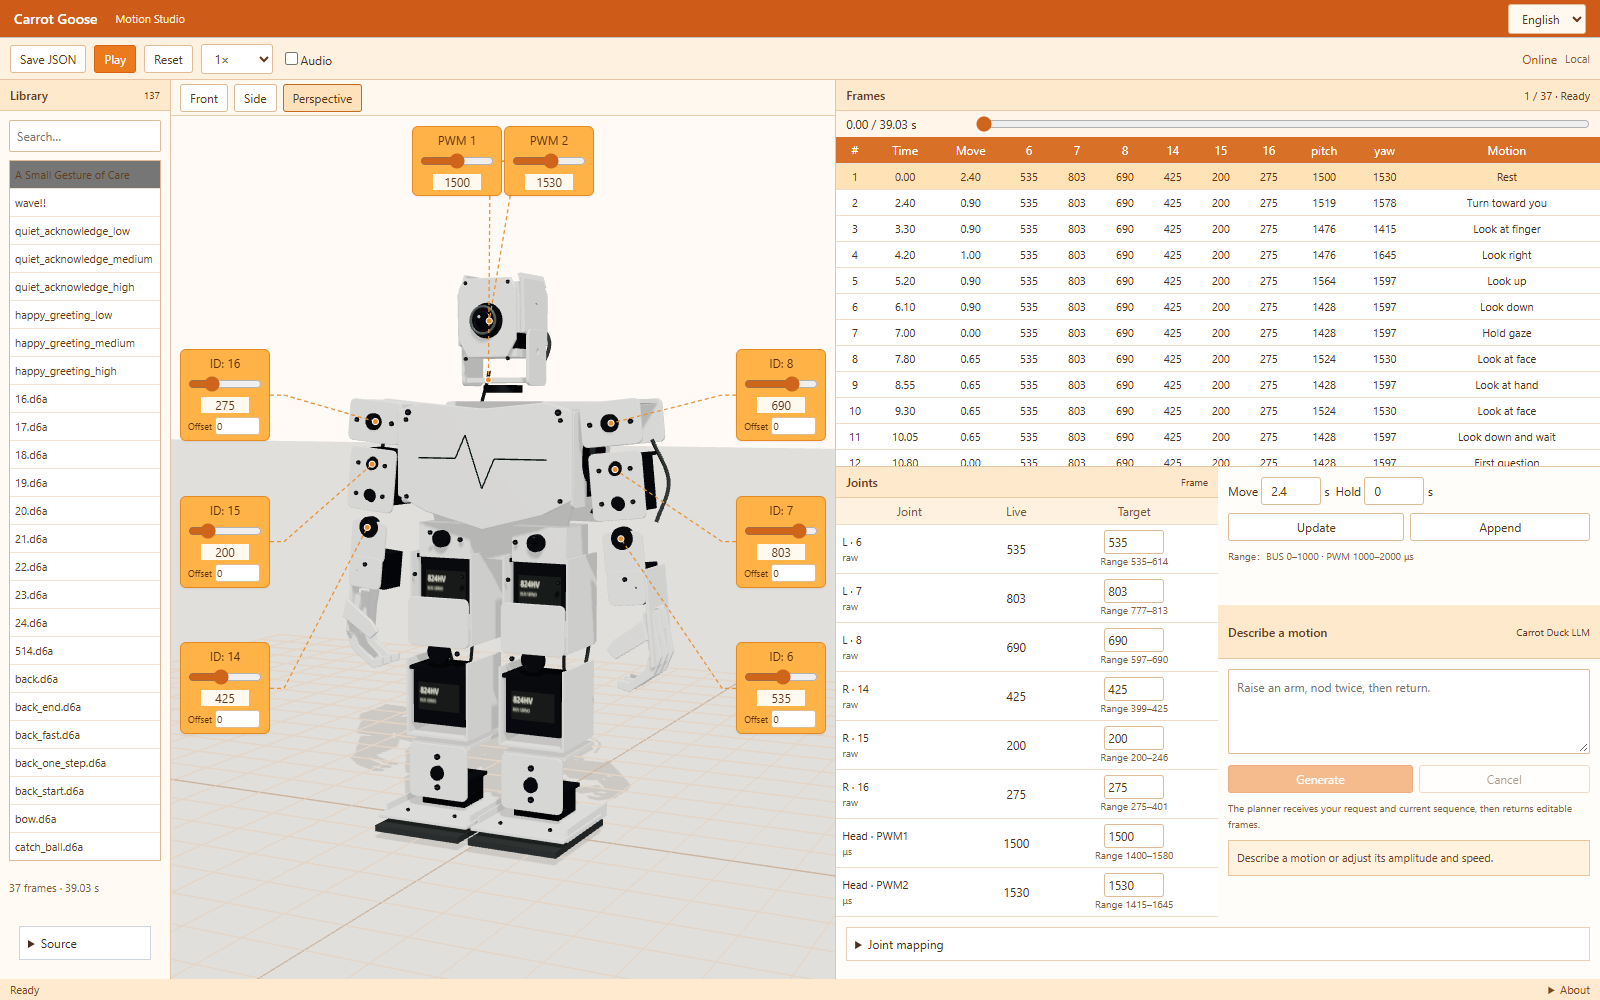
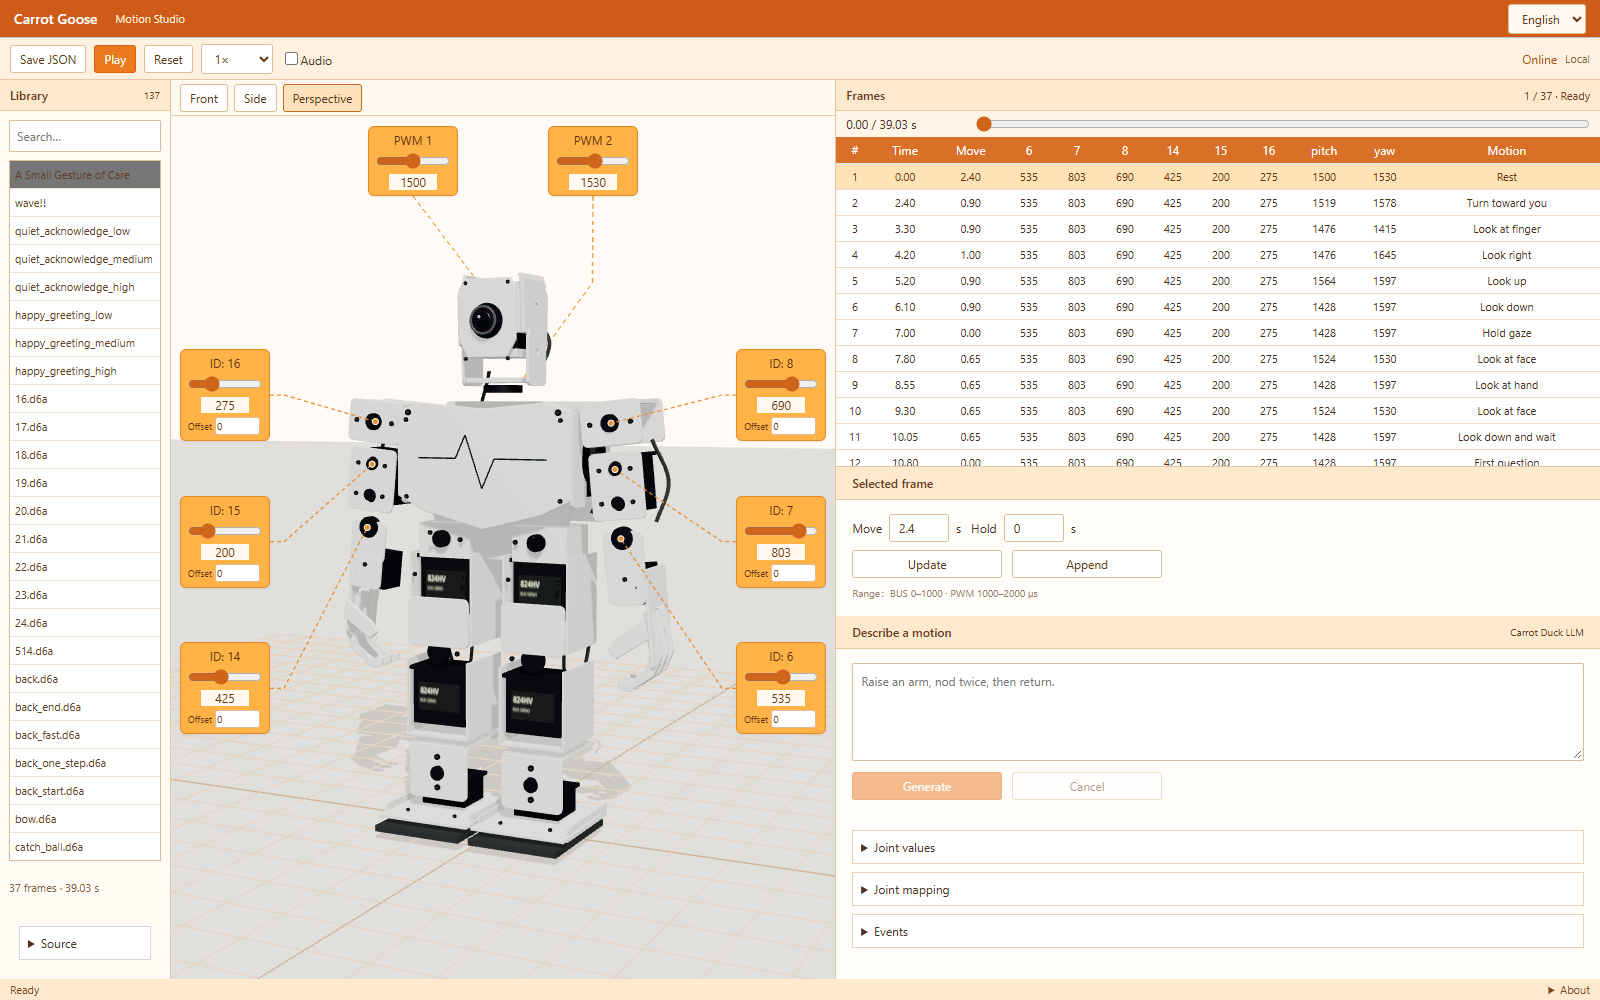
Simplify motion editing layout and route head links behind model

Changed region(s): [[0.5, 0.465, 1.0, 0.961], [0.2188, 0.124, 0.4062, 0.217], [0.9688, 0.744, 1.0, 0.775]]

diff --git a/apps/studio/index.html b/apps/studio/index.html
@@ -1,10 +1,10 @@
-<!doctype html><html lang="en"><meta charset="utf-8"><meta name="viewport" content="width=device-width,initial-scale=1"><title>Carrot Goose · Motion Studio</title><link rel="stylesheet" href="./workbench.css?v=7"><script type="importmap">{"imports":{"three":"./vendor/three.module.js"}}</script>
+<!doctype html><html lang="en"><meta charset="utf-8"><meta name="viewport" content="width=device-width,initial-scale=1"><title>Carrot Goose · Motion Studio</title><link rel="stylesheet" href="./workbench.css?v=8"><script type="importmap">{"imports":{"three":"./vendor/three.module.js"}}</script>
 <header><h1>Carrot Goose</h1><span>Motion Studio</span><select id="language" aria-label="Language"><option value="en">English</option><option value="zh">中文</option></select></header>
 <nav class="toolbar"><button id="save-motion">Save JSON</button><button id="play" class="primary">Play</button><button id="reset">Reset</button><select id="speed"><option value=".5">0.5×</option><option value="1" selected>1×</option><option value="1.5">1.5×</option></select><input type="checkbox" id="audio" hidden><span class="spacer"></span><a href="https://carrotgoose.online/" id="online-link" target="_blank" rel="noopener">Online</a><button id="account-button" hidden>Sign in</button><span id="connection">Connecting…</span></nav>
 <main><aside class="left"><div class="panelhead">Library <span id="library-count"></span></div><div class="content"><input id="search" type="search" placeholder="Search…"><select id="action" size="18" aria-label="Motion library"></select><p id="evidence"></p><details><summary>Source</summary><div id="source"></div></details></div></aside>
 <section class="stage"><div class="viewportbar"><button id="front">Front</button><button id="side">Side</button><button id="perspective">Perspective</button><span>Drag to orbit</span></div><div id="view"><div id="servo-sliders" aria-label="Servo sliders"></div><div id="caption"><div id="beat">Loading…</div><span>Preview</span></div><div id="dialogue"></div></div></section>
-<aside class="right"><div class="panelhead">Joints <span>Frame</span></div><table class="joint-table"><thead><tr><th>Joint</th><th>Live</th><th>Target</th></tr></thead><tbody id="joint-rows"></tbody></table><div id="values"></div><div class="pad"><div class="row"><label>Move <input id="move-time" type="number" min=".05" max="10" step=".05" value="1" style="width:60px"> s</label><label>Hold <input id="hold-time" type="number" min="0" max="10" step=".1" value="0" style="width:60px"> s</label></div><div class="row"><button id="apply-frame">Update</button><button id="append-frame">Append</button></div><p class="hint">Range：BUS 0–1000 · PWM 1000–2000 μs</p></div>
-<div class="panelhead">Describe a motion <span>Carrot Duck LLM</span></div><div class="pad"><textarea id="instruction" placeholder="Raise an arm, nod twice, then return."></textarea><div class="row" style="margin-top:8px"><button id="generate" class="primary">Generate</button><button id="cancel-plan" disabled>Cancel</button></div><p class="hint">The planner receives your request and current sequence, then returns editable frames.</p><div id="plan-result">Describe a motion or adjust its amplitude and speed.</div><div id="range-report"></div></div>
-<details><summary>Joint mapping</summary><div><select id="joint"></select> <select id="axis"><option>x</option><option>y</option><option>z</option></select> <select id="sign"><option value="1">+1</option><option value="-1">−1</option></select><button id="export">Save mapping</button><pre id="raw"></pre></div></details>
+<aside class="right"><div class="panelhead">Selected frame</div><div class="pad"><div class="row"><label>Move <input id="move-time" type="number" min=".05" max="10" step=".05" value="1" style="width:60px"> s</label><label>Hold <input id="hold-time" type="number" min="0" max="10" step=".1" value="0" style="width:60px"> s</label></div><div class="row"><button id="apply-frame">Update</button><button id="append-frame">Append</button></div><p class="hint">Range：BUS 0–1000 · PWM 1000–2000 μs</p></div>
+<div class="panelhead">Describe a motion <span>Carrot Duck LLM</span></div><div class="pad"><textarea id="instruction" placeholder="Raise an arm, nod twice, then return."></textarea><div class="row" style="margin-top:8px"><button id="generate" class="primary">Generate</button><button id="cancel-plan" disabled>Cancel</button></div><div id="plan-result" aria-live="polite"></div><div id="range-report"></div></div>
+<details class="joint-details"><summary>Joint values</summary><table class="joint-table"><thead><tr><th>Joint</th><th>Live</th><th>Target</th></tr></thead><tbody id="joint-rows"></tbody></table><div id="values"></div></details><details><summary>Joint mapping</summary><div><select id="joint"></select> <select id="axis"><option>x</option><option>y</option><option>z</option></select> <select id="sign"><option value="1">+1</option><option value="-1">−1</option></select><button id="export">Save mapping</button><pre id="raw"></pre></div></details>
 <details><summary>Events</summary><div><textarea id="event"></textarea><button id="example">Example</button><button id="accept">Receive</button><p id="error"></p></div></details></aside>
-<section id="frame-editor"><div class="panelhead">Frames <span id="phase"></span></div><div class="time-row"><span id="clock">0 / 0 s</span><input id="time" type="range" min="0" max="1" step=".001" value="0" aria-label="Timeline"></div><div id="frames"></div></section></main><footer><span id="status">Ready</span><details class="about"><summary>About</summary><div><a href="./project.html">About this workbench</a><br>This workbench previews motion. Input ranges are encoding limits; joint axes require calibration.</div></details></footer><dialog id="account-dialog"><form id="account-form"><h2>Sign in</h2><p>Enter your account recovery key.</p><input id="recovery-key" type="password" autocomplete="off" required aria-label="Recovery key"><p id="account-error"></p><button type="submit">Sign in</button><button type="button" id="account-close">Cancel</button></form></dialog><script type="module" src="./studio.js?v=7"></script></html>
+<section id="frame-editor"><div class="panelhead">Frames <span id="phase"></span></div><div class="time-row"><span id="clock">0 / 0 s</span><input id="time" type="range" min="0" max="1" step=".001" value="0" aria-label="Timeline"></div><div id="frames"></div></section></main><footer><span id="status">Ready</span><details class="about"><summary>About</summary><div><a href="./project.html">About this workbench</a><br>This workbench previews motion. Input ranges are encoding limits; joint axes require calibration.</div></details></footer><dialog id="account-dialog"><form id="account-form"><h2>Sign in</h2><p>Enter your account recovery key.</p><input id="recovery-key" type="password" autocomplete="off" required aria-label="Recovery key"><p id="account-error"></p><button type="submit">Sign in</button><button type="button" id="account-close">Cancel</button></form></dialog><script type="module" src="./studio.js?v=8"></script></html>

diff --git a/apps/studio/studio.js b/apps/studio/studio.js
@@ -1,5 +1,5 @@
 import * as T from 'three';
-import {createRobot} from './robot.js?v=7';
+import {createRobot} from './robot.js?v=8';
 import {OrbitControls} from './vendor/OrbitControls.js';
 const labels={"复原到起点 · 安静待机": "Rest", "你靠近 · 转向你": "Turn toward you", "手指向左 · 双手安静": "Look at finger", "手指向右": "Look right", "手指向上": "Look up", "手指向下": "Look down", "手停 · 视线停在手上": "Hold gaze", "看向你的脸": "Look at face", "再看看你的手": "Look at hand", "又看向你": "Look at face", "再看手 · 低头等你": "Look down and wait", "你的第一句文字": "First question", "不告诉你 · 文字先出现": "Wait for reply", "轻轻点头 · 低下": "Nod", "点头以后 · 抬头看你": "Look up at you", "让开心停留一下": "Pause", "Cheer · 双臂前抬与点头摇摆 · 1/5": "Cheer", "Cheer · 双臂前抬与点头摇摆 · 2/5": "Cheer", "Cheer · 双臂前抬与点头摇摆 · 3/5": "Cheer", "Cheer · 双臂前抬与点头摇摆 · 4/5": "Cheer", "Cheer · 双臂前抬与点头摇摆 · 5/5": "Cheer", "再看你 · 等你的手移开": "Look at hand", "手指已移开 · 注意到离开": "Hand withdraws", "第一次轻轻抬手": "Raise arm", "犹豫 · 缩回一点": "Hesitate", "Hey · 看向你的脸": "Hey, look at face", "再看你的手 · 决定邀请": "Look at hand", "第二次邀请 · 胸前停住": "Invite again", "坚定地等你 · 看手再看脸": "Nod and look back", "你的第二句文字": "Second question", "拥抱回复出现 · 保持邀请": "Read hug reply", "双臂向前 · 邀请拥抱 · 1/3": "Offer hug", "双臂向前 · 邀请拥抱 · 2/3": "Offer hug", "双臂向前 · 邀请拥抱 · 3/3": "Offer hug", "一个不接触的拥抱 · 停留": "Hold invitation", "自然放下双臂": "Lower arms", "拥抱后看向你 · 回到待机": "Return to rest"};
 const label=x=>labels[x]||x;
@@ -44,7 +44,7 @@ options();choose(current);updateMappingControls();
 window.studio={joints,mapping,camera,previewPose(p){playing=false;stopAudio();draftPose={...sample(current,time).pose,...p};$('play').textContent='Play';drawPose();},setOffset(id,value){if(!['6','7','8','14','15','16'].includes(id)||!Number.isFinite(value)||value< -125||value>125)return false;mapping[id].preview_offset=value;drawPose();return true;},label,library,sample,seek,choose,acceptEvent,get current(){return current},addAction(a){library.actions.push(a);$('search').value='';choose(a);options();},get state(){return {time,playing,action:current.name,run,sequence,log,pose:draftPose||sample(current,time).pose}},renderer,scene};
 function tick(now){const dt=Math.min(.1,(now-last)/1000);last=now;if(playing){time=Math.min(current.duration,time+dt*Number($('speed').value));drawPose();if(time>=current.duration){playing=false;stopAudio();$('play').textContent='Play';note('completed',{action:current.name});drawPose();}}controls.update();renderer.render(scene,camera);requestAnimationFrame(tick);}requestAnimationFrame(tick);
 
-await import('./editor.js?v=7');
-await import('./locale.js?v=7');
-await import('./joint-links.js?v=7');
+await import('./editor.js?v=8');
+await import('./locale.js?v=8');
+await import('./joint-links.js?v=8');
 

diff --git a/apps/studio/joint-links.js b/apps/studio/joint-links.js
@@ -6,12 +6,24 @@ const entries=Object.entries(s.joints).map(([id,joint])=>{
  const line=document.createElementNS(ns,'path'),dot=document.createElementNS(ns,'circle');line.setAttribute('class','joint-link');dot.setAttribute('class','joint-dot');dot.setAttribute('r','3');svg.append(line,dot);
  const card=document.querySelector('.servo-'+id);
  const activate=()=>{active=id;document.querySelectorAll('.servo-card').forEach(el=>el.classList.toggle('active',el===card));};card.addEventListener('pointerdown',activate);card.addEventListener('focusin',activate);document.getElementById('edit-'+id).addEventListener('focus',activate);
- return {id,joint,line,dot,card};
+ let behind=null;
+ if(['pitch','yaw'].includes(id)){
+  behind=new T.Line(new T.BufferGeometry(),new T.LineDashedMaterial({color:0xe89032,dashSize:.004,gapSize:.003,depthTest:true,depthWrite:false}));behind.name='head-link-'+id;s.scene.add(behind);line.style.display=dot.style.display='none';
+ }
+ return {id,joint,line,dot,card,behind};
 });
 function tick(){
  s.scene.updateMatrixWorld(true);s.camera.updateMatrixWorld(true);
  const rect=view.getBoundingClientRect();
- for(const {id,joint,line,dot,card} of entries){
+ for(const {id,joint,line,dot,card,behind} of entries){
+  if(behind){
+   const end=joint.localToWorld(new T.Vector3(0,0,-.035));const depth=end.clone().project(s.camera).z,cr=card.getBoundingClientRect();
+   const x=(cr.left+cr.width/2-rect.left)/rect.width*2-1,y=1-(cr.bottom-rect.top)/rect.height*2;
+   const start=new T.Vector3(x,y,depth).unproject(s.camera);
+   const shoulder=new T.Vector3(id==='pitch'?-.052:.052,.46,-.065);
+   behind.geometry.dispose();behind.geometry=new T.BufferGeometry().setFromPoints([start,shoulder,end]);behind.computeLineDistances();
+   continue;
+  }
   const p=joint.localToWorld(new T.Vector3(0,['7','15'].includes(id)?-.036:0,.027)).project(s.camera),cr=card.getBoundingClientRect();
   const x=(p.x+1)*rect.width/2,y=(1-p.y)*rect.height/2;
   const left=cr.left+cr.width/2<rect.left+rect.width/2;

diff --git a/apps/studio/workbench.css b/apps/studio/workbench.css
@@ -12,3 +12,7 @@
 #caption{display:none}header{gap:18px}#language{margin-left:auto;background:#fff9ef;color:#653518;max-width:105px}
 
 #joint-links{position:absolute;inset:0;width:100%;height:100%;pointer-events:none;z-index:1}.joint-link{stroke:#e89032;stroke-width:1.25;stroke-dasharray:4 3;fill:none}.joint-dot{fill:#e89032;stroke:#fff;stroke-width:1}.joint-link.active{stroke:#b34a12;stroke-width:2.4;stroke-dasharray:none}.servo-card.active{outline:2px solid #bb5317;outline-offset:2px}.offset-row{display:flex;align-items:center;gap:3px;margin-top:4px;font-size:10px}.offset-row input{width:45px!important;margin:0;padding:1px;font-size:10px}.offset-row small{font-size:9px}.servo-card{width:90px}.servo-16,.servo-8{top:27%}.servo-15,.servo-7{top:44%}.servo-14,.servo-6{top:61%}@media(max-width:800px){.servo-card{width:72px}.offset-row input{width:34px!important}}
+
+/* One editing surface: frame timing, language planning, then optional inspection. */
+.right{display:block;background:#fffdfa}.right>.pad{padding:14px 16px}.right>.panelhead{min-height:32px;padding:8px 16px}.right .row{flex-wrap:nowrap;gap:10px}.right .row button{flex:0 1 150px}.right .row label{display:flex;align-items:center;gap:7px}.right #instruction{height:98px;min-height:70px}.right .hint{margin:0;color:#977b65}.right details{margin:8px 16px}.right .joint-details table{font-size:11px}#plan-result:empty{display:none}#plan-result{border:0;background:transparent;padding:0;margin:8px 0}#range-report:empty{display:none}.servo-pitch{left:calc(50% - 135px)}.servo-yaw{right:calc(50% - 135px)}
+@media(max-width:800px){.right .row{flex-wrap:wrap}.servo-pitch{left:calc(50% - 115px)}.servo-yaw{right:calc(50% - 115px)}}

diff --git a/README.md b/README.md
@@ -6,7 +6,7 @@ Carrot Goose is a TonyPi robot project exploring how gestures accompany conversa
 
 ![Carrot Goose motion workbench](docs/workbench.png)
 
-[From servo programming to motion rehearsal](https://carrotgoose.online/project.html) explains the workbench’s role in the project.
+[Project website](https://shiruifu.online/projects/embodied-robot/) presents the design question and development process. The recorded robot demonstration predates the current browser workbench.
 
 ## Motion rehearsal
 
@@ -24,17 +24,15 @@ python tools/import_actions.py /path/to/ActionGroups
 
 The importer reads all servo channels in each `.d6a` file. The current 3D model animates six arm channels and two head channels; the remaining values stay in the imported data. The photo-based model is intended for inspecting timing and poses. Physical joint directions and travel limits require calibration.
 
-## Conversation and physical expression
+## Robot project
 
-The demonstration follows three moments: attention, a playful reply and an invitation to hug. Webpage dialogue cues advance an authored sequence. The local robot controller executes movements and returns completion or interruption feedback. Short voice cues play through the robot's attached audio device.
+The recorded demonstration connects webpage dialogue cues to an authored sequence of attention, a playful reply and an invitation to hug. The local controller returns completion or interruption feedback, while short voice cues play through the attached audio device.
 
-![Conversation and physical execution](docs/diagrams/architecture.svg)
-
-The browser workbench supports a separate authoring workflow: import or describe a motion, inspect the model, revise frame targets and save the sequence. Physical rehearsal follows a reviewed handoff to the device controller.
-
-![Motion authoring and physical review](docs/diagrams/workflow.svg)
-
-The project includes [motion and perception modules](docs/robot.md), [dialogue integration](docs/integration.md), and an [expressive performance score](docs/performance.md). The [project study](docs/project.md) explains the design question and the proposed timing comparison.
+| Component | Documentation |
+| --- | --- |
+| Motion and perception | [Robot modules](docs/robot.md) |
+| Conversation connection | [Carrot Duck integration](docs/integration.md) |
+| Dialogue and gesture sequence | [Performance score](docs/performance.md) |
 
 ## Run
 
